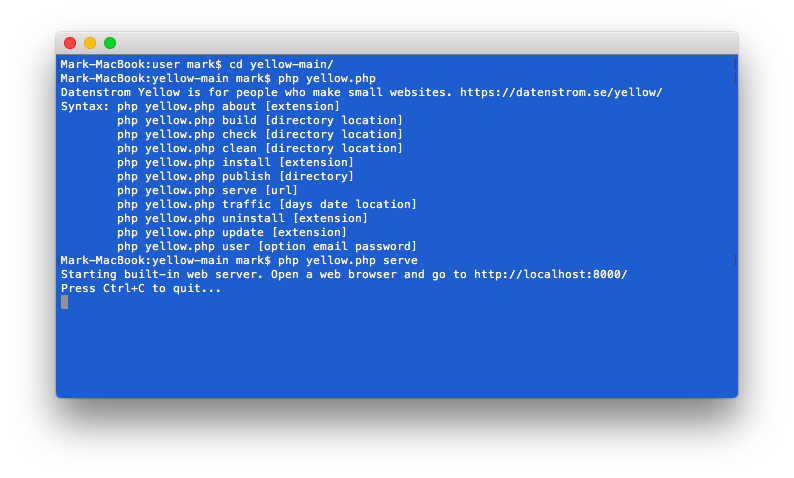
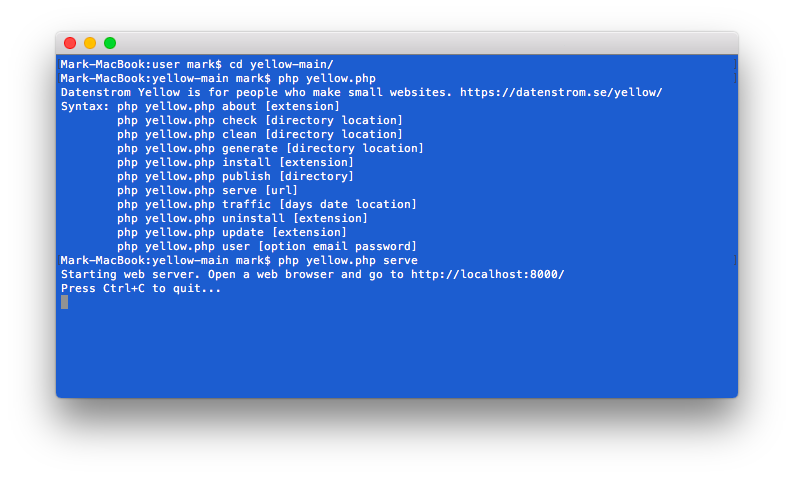
Updated web server, spring remix

Changed region(s): [[0.1511, 0.5565, 0.7859, 0.5858], [0.272, 0.2343, 0.5441, 0.3222]]

diff --git a/serve.php b/serve.php
@@ -2,7 +2,7 @@
 // Serve extension, https://github.com/annaesvensson/yellow-serve
 
 class YellowServe {
-    const VERSION = "0.8.23";
+    const VERSION = "0.8.24";
     public $yellow;         // access to API
     
     // Handle initialisation
@@ -24,7 +24,7 @@ class YellowServe {
         return "serve [url]";
     }
     
-    // Process command to start built-in web server
+    // Process command to start web server
     public function processCommandServe($command, $text) {
         list($url) = $this->yellow->toolbox->getTextArguments($text);
         if (is_string_empty($url)) $url = "http://localhost:8000/";
@@ -32,7 +32,7 @@ class YellowServe {
         if ($scheme=="http" && !is_string_empty($address) && is_string_empty($base)) {
             if (!preg_match("/\:\d+$/", $address)) $address .= ":8000";
             if ($this->checkServerSettings("$scheme://$address/")) {
-                echo "Starting built-in web server. Open a web browser and go to $scheme://$address/\n";
+                echo "Starting web server. Open a web browser and go to $scheme://$address/\n";
                 echo "Press Ctrl+C to quit...\n";
                 exec(PHP_BINARY." -S $address yellow.php 2>&1", $outputLines, $returnStatus);
                 $statusCode = $returnStatus!=0 ? 500 : 200;

diff --git a/README-de.md b/README-de.md
@@ -1,6 +1,6 @@
 <p align="right"><a href="README-de.md">Deutsch</a> &nbsp; <a href="README.md">English</a> &nbsp; <a href="README-sv.md">Svenska</a></p>
 
-# Serve 0.8.23
+# Serve 0.8.24
 
 Eingebauter Webserver.
 
@@ -16,11 +16,11 @@ Du kannst einen Webserver in der [Befehlszeile](https://github.com/annaesvensson
 
 ## Beispiele
 
-Eingebauten Webserver in der Befehlszeile starten:
+Webserver in der Befehlszeile starten:
 
 `php yellow.php serve`  
 
-Eingebauten Webserver in der Befehlszeile starten, unterschiedliche URL:
+Webserver in der Befehlszeile starten, unterschiedliche URL:
 
 `php yellow.php serve http://localhost:8000/`  
 `php yellow.php serve http://localhost:8080/`  

diff --git a/README.md b/README.md
@@ -1,6 +1,6 @@
 <p align="right"><a href="README-de.md">Deutsch</a> &nbsp; <a href="README.md">English</a> &nbsp; <a href="README-sv.md">Svenska</a></p>
 
-# Serve 0.8.23
+# Serve 0.8.24
 
 Built-in web server.
 
@@ -16,11 +16,11 @@ You can start a web server at the [command line](https://github.com/annaesvensso
 
 ## Examples
 
-Starting built-in web server at the command line:
+Starting web server at the command line:
 
 `php yellow.php serve`  
 
-Starting built-in web server at the command line, different URLs:
+Starting web server at the command line, different URLs:
 
 `php yellow.php serve http://localhost:8000/`  
 `php yellow.php serve http://localhost:8080/`  

diff --git a/README-sv.md b/README-sv.md
@@ -1,6 +1,6 @@
 <p align="right"><a href="README-de.md">Deutsch</a> &nbsp; <a href="README.md">English</a> &nbsp; <a href="README-sv.md">Svenska</a></p>
 
-# Serve 0.8.23
+# Serve 0.8.24
 
 Inbyggd webbserver.
 
@@ -16,11 +16,11 @@ Du kan starta en webbserver på [kommandoraden](https://github.com/annaesvensson
 
 ## Exempel
 
-Starta inbyggda webbservern på kommandoraden:
+Starta webbserver på kommandoraden:
 
 `php yellow.php serve`  
 
-Starta inbyggda webbservern på kommandoraden, olika URL:
+Starta webbserver på kommandoraden, olika URL:
 
 `php yellow.php serve http://localhost:8000/`  
 `php yellow.php serve http://localhost:8080/`  
